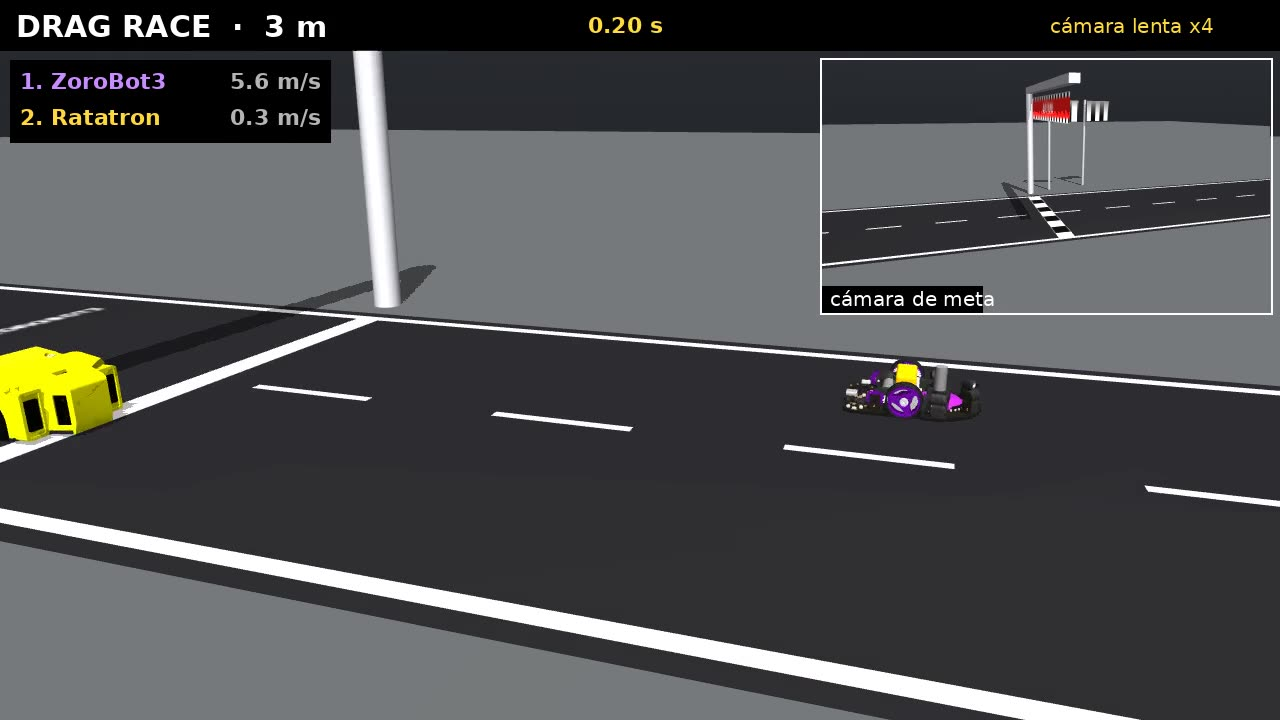
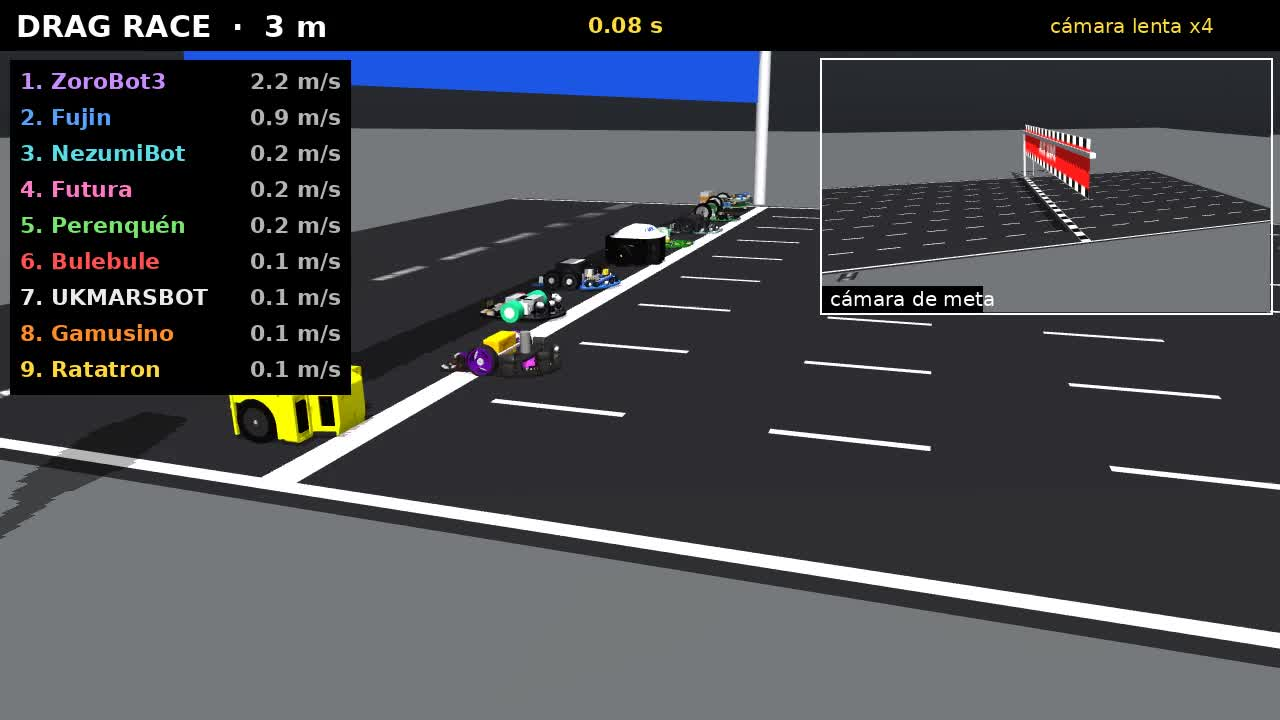
The drag race takes any robots by name (--robots a,b,c, all by default): each robot's straight from its firmware's own profile (Ratatron's race preset, ZoroBot3's SPEED_HAKI and its fan, Fujin's "super" forward of movement_params.cpp with its fan's downforce, UKMARSBOT's FAST_RUN_SPEED_MAX and FAST_

diff --git a/ratasim/scenes/drag_race.py b/ratasim/scenes/drag_race.py
@@ -1,12 +1,17 @@
 """Drag race: the robots on a straight strip, one lane each, from the start lights to a checkered finish (no
-firmware: each robot's own speed profile, lane keeping). A video: the lights in real time, the fastest robot's run
-in slow motion (x4), the rest in real time; a finish camera inset and the times.
+firmware: each robot's own speed profile from its firmware, lane keeping). A video: the lights in real time, the
+fastest robot's run in slow motion (x4), the rest in real time; a finish camera inset and the times.
 
-    ratasim drag-race out.mp4 [--length 3]
+    ratasim drag-race out.mp4 [--robots all] [--length 3]       # --robots ratatron,zorobot,fujin: any, by name
     ratasim drag-race --still out.png       # the robots at the start line
+
+Their profiles (ROBOTS): Ratatron's race preset, ZoroBot3's SPEED_HAKI (and its fan), Fujin's "super" forward
+(movement_params.cpp, its fan on), UKMARSBOT's FAST_RUN_SPEED_MAX and FAST_RUN_ACCELERATION (ORION), Bulebule's
+LINEAR_SPEED_LIMIT at 2 F / MOUSE_MASS (its runner's 0.25 N), Futura's 2 m/s at 6 m/s^2, Perenquen's traj_speed
+1000 at its ACC_DIST, Gamusino's 1.6 m/s at 3 m/s^2, NezumiBot's 40 % PWM (velBase: no profile, its motors' step).
+Their motors: Ratatron's and ZoroBot3's models, the others a speed servo as quick as Ratatron's (WheelServo).
 """
 import argparse
-import math
 import os
 
 import mujoco
@@ -20,10 +25,27 @@ from . import common as K
 
 LANE_W = 0.22
 RUNOFF = 1.4
-ROBOTS = {      # prefix, speed profile, front from the axle (m), brake (m/s^2), label colour
-    'ratatron': dict(prefix='', profile=K.ratatron_race, front=0.045, brake=2.0, name='Ratatron', colour=(255, 215, 60)),
-    'zorobot': dict(prefix='z_', profile=K.haki, front=0.0512, brake=30.0, name='ZoroBot3', colour=(200, 140, 255)),
+
+
+def ramp(v, a):
+    """From rest at t = 0: a (m/s^2) up to v (m/s)."""
+    return lambda t: min(a * t, v) if t > 0 else 0.0
+
+
+NEZUMI_V = 0.40 * K.NC.BATTERY_V / K.NC.MOTOR_KE / K.NC.GEAR * K.NC.WHEEL_RADIUS_MM * K.MM     # 0.54 m/s free
+ROBOTS = {      # speed profile, brake after the line (m/s^2), fan (N down, or ZoroBot3's duty)
+    'ratatron': dict(profile=K.ratatron_race, brake=2.0),
+    'zorobot': dict(profile=K.haki, brake=30.0, fan=K.HAKI['fan']),
+    'gamusino': dict(profile=ramp(1.6, 3.0), brake=3.0),
+    'bulebule': dict(profile=ramp(2.0, 2 * 0.25 / 0.11), brake=2 * 0.25 / 0.11),
+    'nezumibot': dict(profile=ramp(NEZUMI_V, 10.0), brake=5.0),
+    'perenquen': dict(profile=ramp(1.96, 5.9), brake=5.9),
+    'fujin': dict(profile=ramp(6.5, 35.0), brake=35.0, fan=K.FC.FAN_DOWNFORCE_N),
+    'futura': dict(profile=ramp(2.0, 6.0), brake=6.0),
+    'ukmarsbot': dict(profile=ramp(2.5, 3.0), brake=3.0),
 }
+for _k, _spec in ROBOTS.items():
+    _spec.update(name=K.ROBOTS[_k]['name'], colour=K.ROBOTS[_k]['colour'], prefix=K.ROBOTS[_k]['prefix'])
 TEX = os.path.join(paths.SIM_BUILD, 'scenes')
 
 
@@ -100,7 +122,8 @@ def scenery(lanes, length):
     box((0.0, 0, 0.0003), (0.012, half_w, 0.0001), white)
     box((length + 0.025, 0, 0.0003), (0.025, half_w, 0.0002), material='chk_line')
     for k, y in lanes.items():
-        tex_quad(f'lane_{k}', f'lane_{k}.png', 0.16, 0.04, 'xy', (-0.30, y, 0.0003), '0 0 90')
+        dw = min(0.16, 0.85 * LANE_W)
+        tex_quad(f'lane_{k}', f'lane_{k}.png', dw, dw / 4, 'xy', (-0.30, y, 0.0003), '0 0 90')
     for mk in (1, 2):
         tex_quad(f'mark{mk}', f'mark_{mk}.png', 0.06, 0.06, 'xy', (mk, -half_w - 0.06, 0.0003), '0 0 90')
     for name, x in (('salida', -0.02), ('meta', length + 0.025)):      # one post on the far side, a cantilever
@@ -126,16 +149,33 @@ def scenery(lanes, length):
     return ''.join(assets), ''.join(world), lights
 
 
+def nose(bot):
+    """How far its front is ahead of its body's origin (m), facing +x: the farthest of its geoms' boxes."""
+    m, d = bot.m, bot.d
+    bot.place(0.0, 0.0, 0.0)
+    mujoco.mj_kinematics(m, d)
+    x0, far = float(d.xpos[bot.body][0]), -1.0
+    corners = np.array([[i, j, k] for i in (-1, 1) for j in (-1, 1) for k in (-1, 1)], float)
+    for g in range(m.ngeom):
+        if m.body_rootid[m.geom_bodyid[g]] != bot.body or m.geom_type[g] == mujoco.mjtGeom.mjGEOM_PLANE:
+            continue
+        c, h = m.geom_aabb[g][:3], m.geom_aabb[g][3:]
+        pts = d.geom_xpos[g] + (c + corners * h) @ d.geom_xmat[g].reshape(3, 3).T
+        far = max(far, float(pts[:, 0].max()))
+    return far - x0
+
+
 class Racer(K.Bot):
     def __init__(self, m, d, key, y):
         spec = ROBOTS[key]
         super().__init__(m, d, spec['prefix'])
         self.key, self.spec, self.y = key, spec, y
         self.finish_t = self.finish_v = None
-        self.place(-spec['front'] - 0.004, y, 0.0)
+        self.nose = nose(self)
+        self.place(-self.nose - 0.004, y, 0.0)
 
     def front(self):
-        return float(self.pos()[0]) + self.spec['front']
+        return float(self.pos()[0]) + self.nose
 
     def v_ref(self, t):
         if self.finish_t is not None:
@@ -143,18 +183,18 @@ class Racer(K.Bot):
         return self.spec['profile'](t)
 
 
-def build(length):
-    keys = list(ROBOTS)
+def build(length, keys):
     lanes = {k: (i - (len(keys) - 1) / 2) * LANE_W for i, k in enumerate(keys)}
     textures(keys)
     assets, world, lights = scenery(lanes, length)
-    xml = K.scene_xml(Maze.load(maze_path('oshwdem2026')), with_maze=False)
+    xml = K.scene_of(Maze.load(maze_path('oshwdem2026')), keys, with_maze=False)
     xml = xml.replace('</asset>', assets + '</asset>', 1).replace('</worldbody>', world + '</worldbody>', 1)
     m, d = K.compile(xml)
     racers = [Racer(m, d, k, lanes[k]) for k in keys]
-    drives = {'ratatron': K.RatatronDrive, 'zorobot': K.ZoroDrive}
+    K.park(m, d, keys)
     for r in racers:
-        r.drive = drives[r.key](r)
+        r.drive = (K.RatatronDrive(r) if r.key == 'ratatron' else K.ZoroDrive(r) if r.key == 'zorobot'
+                   else K.WheelServo(r, r.key))
     return m, d, racers, lights
 
 
@@ -165,7 +205,9 @@ def control(m, d, racers, lights, t, length):
             print(f'{r.spec["name"]:9s} {t:.3f} s, {r.speed():.2f} m/s at the line')
         r.drive.drive(*K.lane_keep(r, r.v_ref(t), 0.0, float(r.pos()[1]) - r.y))
         if r.key == 'zorobot':
-            r.drive.fan(K.HAKI['fan'], down=(0, 0, -1))
+            r.drive.fan(r.spec['fan'], down=(0, 0, -1))
+        elif r.spec.get('fan'):
+            d.xfrc_applied[r.body, :3] = (0, 0, -r.spec['fan'])
     for i, name in enumerate(lights):           # three reds come on, then out and green
         mid = m.material(name).id
         on = (-1.2 + 0.4 * i <= t < 0) if i < 3 else t >= 0
@@ -173,10 +215,14 @@ def control(m, d, racers, lights, t, length):
         m.mat_emission[mid] = 0.9 if on else 0.0
 
 
-def still(path):
+def lane_width(keys):
+    return 0.22 if len(keys) <= 3 else 0.17
+
+
+def still(path, keys):
     global LANE_W
-    LANE_W = 0.13
-    m, d, racers, lights = build(3.0)
+    LANE_W = 0.13 if len(keys) <= 3 else 0.15
+    m, d, racers, lights = build(3.0, keys)
     t = -2.0
     while t < -1.6:
         control(m, d, racers, lights, t, 3.0)
@@ -184,13 +230,16 @@ def still(path):
         t += m.opt.timestep
     ren, cam = mujoco.Renderer(m, 1080, 1920), mujoco.MjvCamera()
     cam.lookat[:] = (-0.05, 0.0, 0.015)
-    cam.distance, cam.elevation, cam.azimuth = 0.36, -26, 215
+    cam.distance, cam.elevation, cam.azimuth = (0.36, -26, 215) if len(keys) <= 3 else (0.75 * len(keys) * LANE_W, -42, 205)
     ren.update_scene(d, cam)
     Image.fromarray(ren.render()).save(path)
 
 
-def race(out, length):
-    m, d, racers, lights = build(length)
+def race(out, length, keys):
+    global LANE_W
+    LANE_W = lane_width(keys)
+    width = max(1.0, 0.6 * len(keys) * LANE_W / 0.44)     # the cameras farther for a wider strip (two lanes: 1)
+    m, d, racers, lights = build(length, keys)
     dt, t = m.opt.timestep, -1.9
     while t < -1.6:
         control(m, d, racers, lights, t, length)
@@ -201,7 +250,7 @@ def race(out, length):
     ren, pip = mujoco.Renderer(m, h, w), mujoco.Renderer(m, ph, pw)
     cam, fcam = mujoco.MjvCamera(), mujoco.MjvCamera()
     fcam.lookat[:] = (length + 0.02, 0.0, 0.10)
-    fcam.distance, fcam.elevation, fcam.azimuth = 1.05, -14, 75
+    fcam.distance, fcam.elevation, fcam.azimuth = 1.05 * width, -14, 75
     big, mid_f, small = K.font(30), K.font(22), K.font(20, bold=False)
     fastest = max(racers, key=lambda r: r.v_ref(10.0))
     slow_until = 0.75 * length / 3.0
@@ -218,7 +267,7 @@ def race(out, length):
         speed = 4.0 if 0 <= t < slow_until else 1.0         # video seconds per simulated second
         next_frame += 1.0 / 30 / speed
         if t < 0:
-            new, target, dd, el, az = 'start', np.array([0.0, 0.0, 0.04]), 0.95, -20, 125
+            new, target, dd, el, az = 'start', np.array([0.0, 0.0, 0.04]), 0.95 * width, -20, 125
         elif fastest.finish_t is None or t < fastest.finish_t + 0.2:
             new, target, dd, el, az = 'fastest', np.array([max(0.15, float(fastest.pos()[0])), fastest.y - 0.05, 0.03]), 0.62, -16, 108
         else:
@@ -227,7 +276,7 @@ def race(out, length):
             ys = [r.y for r in (pending or racers)]
             new = 'pack'
             target = np.array([(min(xs) + max(xs)) / 2, float(np.mean(ys)) - 0.05, 0.03])
-            dd, el, az = max(0.8, 0.8 * (max(xs) - min(xs)) + 0.55), -22, 105
+            dd, el, az = max(0.8, 0.8 * (max(xs) - min(xs)) + 0.55, 1.3 * (max(ys) - min(ys)) + 0.5), -22, 105
         if new != shot:
             look = dist = None                               # a cut
             shot = new
@@ -248,11 +297,11 @@ def race(out, length):
         g.text((w // 2 - 60, 12), 'preparados...' if t < 0 else f'{t:5.2f} s', font=mid_f, fill=(255, 220, 60))
         g.text((w - 230, 14), '' if t < 0 else ('cámara lenta x4' if speed > 1 else 'tiempo real'), font=small, fill=(255, 220, 60))
         order = sorted(racers, key=lambda r: (r.finish_t is None, r.finish_t or 0, -r.front()))
-        g.rectangle((10, 60, 330, 70 + 36 * len(racers)), fill=(0, 0, 0))
+        g.rectangle((10, 60, 350, 70 + 36 * len(racers)), fill=(0, 0, 0))
         for i, r in enumerate(order):
             res = f'{r.finish_t:.2f} s' if r.finish_t is not None else f'{max(0.0, r.speed()):.1f} m/s'
             g.text((20, 68 + 36 * i), f'{i + 1}. {r.spec["name"]}', font=mid_f, fill=r.spec['colour'])
-            g.text((230, 68 + 36 * i), res, font=mid_f, fill=(255, 255, 255) if r.finish_t else (180, 180, 180))
+            g.text((250, 68 + 36 * i), res, font=mid_f, fill=(255, 255, 255) if r.finish_t else (180, 180, 180))
         video.write(img)
     video.close()
 
@@ -261,13 +310,19 @@ def main(argv=None):
     p = argparse.ArgumentParser(prog='ratasim drag-race', description=__doc__, formatter_class=argparse.RawDescriptionHelpFormatter)
     p.add_argument('out', nargs='?', help='the mp4')
     p.add_argument('--length', type=float, default=3.0, help='start to finish, m')
+    p.add_argument('--robots', default='all', help=f'which, by name, in their lanes\' order: {",".join(ROBOTS)} '
+                   '(default all)')
     p.add_argument('--still', metavar='PNG', help='only a picture of the robots at the start line')
     a = p.parse_args(argv)
+    try:
+        keys = K.robot_names(a.robots)
+    except ValueError as e:
+        p.error(str(e))
     if a.still:
-        still(a.still)
+        still(a.still, keys)
         print('->', a.still)
     elif a.out:
-        race(a.out, a.length)
+        race(a.out, a.length, keys)
         print('->', a.out)
     else:
         p.error('give the mp4, or --still PNG')

diff --git a/ratasim/scenes/common.py b/ratasim/scenes/common.py
@@ -1,5 +1,6 @@
-"""What the scenes share: one MuJoCo scene with Ratatron (unprefixed) and ZoroBot3 (prefixed z_), their drives without
-firmware (each robot's own speed profile and motor model), and an mp4 writer."""
+"""What the scenes share: one MuJoCo scene with Ratatron (unprefixed) and ZoroBot3 (prefixed z_), the other robots
+added by name (ROBOTS: each its prefix), their drives without firmware (each robot's own speed profile and motor
+model), and an mp4 writer."""
 import math
 import os
 import re
@@ -13,18 +14,60 @@ from PIL import ImageFont   # noqa: E402
 from .. import config as C, model as RM   # noqa: E402
 from ..robot import TAU_S   # noqa: E402
 from ..zorobot import config as Z, model as ZM   # noqa: E402
-from ..gamusino import model as GM   # noqa: E402
-from ..bulebule import model as BM   # noqa: E402
-from ..nezumibot import model as NM   # noqa: E402
-from ..perenquen import model as PM   # noqa: E402
-from ..fujin import model as FM   # noqa: E402
-from ..futura import model as UM   # noqa: E402
-from ..ukmarsbot import model as KM   # noqa: E402
+from ..gamusino import config as GC, model as GM   # noqa: E402
+from ..bulebule import config as BC, model as BM   # noqa: E402
+from ..nezumibot import config as NC, model as NM   # noqa: E402
+from ..perenquen import config as PC, model as PM   # noqa: E402
+from ..fujin import config as FC, model as FM   # noqa: E402
+from ..futura import config as UC, model as UM   # noqa: E402
+from ..ukmarsbot import config as KC, model as KM   # noqa: E402
 
 MM = 0.001
 RAT_V, RAT_A = 0.9, 2.0                 # Ratatron's race preset: FAST_FULL_SPEED, RACE_ACCEL_MM_S2
 HAKI = dict(v=6.5, a_hard=30.0, v_hard=4.5, a_soft=25.0, fan=0.90)   # ZoroBot3's SPEED_HAKI (2S fan 90 %)
 FONT = '/usr/share/fonts/truetype/dejavu/DejaVuSans{}.ttf'
+
+# Every robot by its name (its command's): its prefix in the scene, scene_xml's flag that adds it (Ratatron and
+# ZoroBot3 are always there), its name on screen, its colour there, its wheels' radius (m) and its mass (kg).
+ROBOTS = {
+    'ratatron': dict(prefix='', flag=None, name='Ratatron', colour=(255, 215, 60), r=C.TIRE_RADIUS_MM * MM, mass=None),
+    'zorobot': dict(prefix='z_', flag=None, name='ZoroBot3', colour=(200, 140, 255), r=Z.TIRE_CAD_RADIUS_MM * MM,
+                    mass=Z.MASS_KG),
+    'gamusino': dict(prefix='g_', flag='gamusino', name='Gamusino', colour=(255, 140, 40), r=GC.WHEEL_RADIUS_M,
+                     mass=GC.MASS_KG),
+    'bulebule': dict(prefix='b_', flag='bulebule', name='Bulebule', colour=(255, 80, 80), r=BC.WHEEL_RADIUS * MM,
+                     mass=BC.MASS_KG),
+    'nezumibot': dict(prefix='n_', flag='nezumibot', name='NezumiBot', colour=(90, 220, 230),
+                      r=NC.WHEEL_RADIUS_MM * MM, mass=NC.MASS_KG),
+    'perenquen': dict(prefix='p_', flag='perenquen', name='Perenquén', colour=(120, 230, 110),
+                      r=PC.WHEEL_RADIUS_MM * MM, mass=PC.MASS_KG),
+    'fujin': dict(prefix='f_', flag='fujin', name='Fujin', colour=(90, 160, 255), r=FC.TIRE_CAD_RADIUS_MM * MM,
+                  mass=FC.MASS_KG),
+    'futura': dict(prefix='u_', flag='futura', name='Futura', colour=(255, 120, 200), r=UC.WHEEL_RADIUS_MM * MM,
+                   mass=UC.MASS_KG),
+    'ukmarsbot': dict(prefix='k_', flag='ukmarsbot', name='UKMARSBOT', colour=(235, 235, 235),
+                      r=KC.AXLE_Z * MM, mass=KC.MASS_KG),
+}
+
+
+def robot_names(text):
+    """'a,b,c' (or 'all') as a list of ROBOTS' names; a ValueError naming the ones there are."""
+    names = list(ROBOTS) if text.strip() == 'all' else [n.strip().lower() for n in text.split(',') if n.strip()]
+    bad = [n for n in names if n not in ROBOTS]
+    if bad or not names:
+        raise ValueError(f'no robot {", ".join(bad) or "given"}: the robots are {", ".join(ROBOTS)} (or all)')
+    return list(dict.fromkeys(names))
+
+
+def scene_of(maze, names, **kw):
+    """scene_xml() with the robots of names added (Ratatron and ZoroBot3 are in it anyway: park() the others)."""
+    return scene_xml(maze, **{ROBOTS[n]['flag']: True for n in names if ROBOTS[n]['flag']}, **kw)
+
+
+def park(m, d, names):
+    """Ratatron and ZoroBot3 out of the way (5 m off) when they are not in names."""
+    for i, n in enumerate(n for n in ('ratatron', 'zorobot') if n not in names):
+        Bot(m, d, ROBOTS[n]['prefix']).place(-5.0 - i, -5.0, 0.0)
 
 
 def scene_xml(maze, with_maze=True, rat_mass=0.200, hull_solref=None, gamusino=False, bulebule=False, nezumibot=False,
@@ -141,15 +184,17 @@ class Bot:
 
 
 class RatatronDrive:
-    """Ratatron's motor model (robot.py): torque b * (w_target - w), b from the joint damping."""
+    """Ratatron's motor model (robot.py): torque b * (w_target - w), b from the joint damping. Another robot's (radius
+    r m, mass kg): the same speed servo, as quick (WheelServo)."""
 
-    def __init__(self, bot):
+    def __init__(self, bot, r=None, mass=None, tau=TAU_S):
         m, self.bot = bot.m, bot
-        self.r = C.TIRE_RADIUS_MM * MM
+        self.r = r or C.TIRE_RADIUS_MM * MM
+        mass = mass or C.MASS_KG
         self.b = {}
         for s in 'lr':
             jw = m.body_inertia[m.body(f'{bot.p}wheel_{s}').id][0] + m.dof_armature[bot.dof[s]]
-            self.b[s] = (0.5 * C.MASS_KG * self.r ** 2 + jw) / TAU_S
+            self.b[s] = (0.5 * mass * self.r ** 2 + jw) / tau
         self.engage(True)
 
     def engage(self, on):
@@ -162,6 +207,11 @@ class RatatronDrive:
     def drive(self, v_l, v_r):
         for s, v in (('l', v_l), ('r', v_r)):
             self.bot.d.ctrl[self.bot.act[s]] = self.b[s] * v / self.r
+
+
+def WheelServo(bot, name):
+    """A drive for the robot of ROBOTS' name: a speed servo at its wheels' radius and its mass."""
+    return RatatronDrive(bot, ROBOTS[name]['r'], ROBOTS[name]['mass'])
 
 
 class ZoroDrive:
